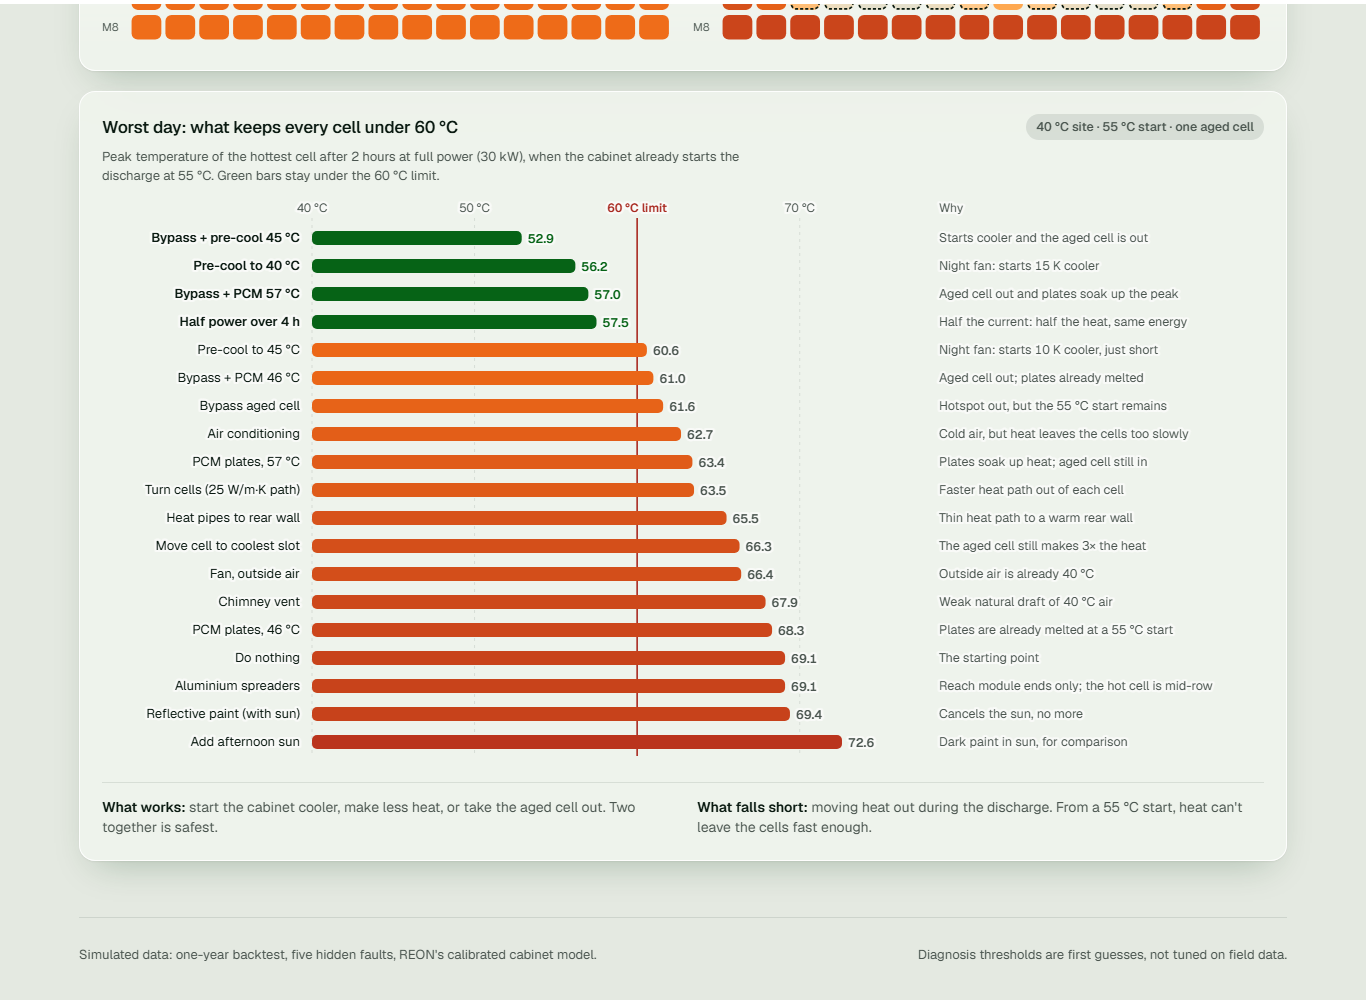
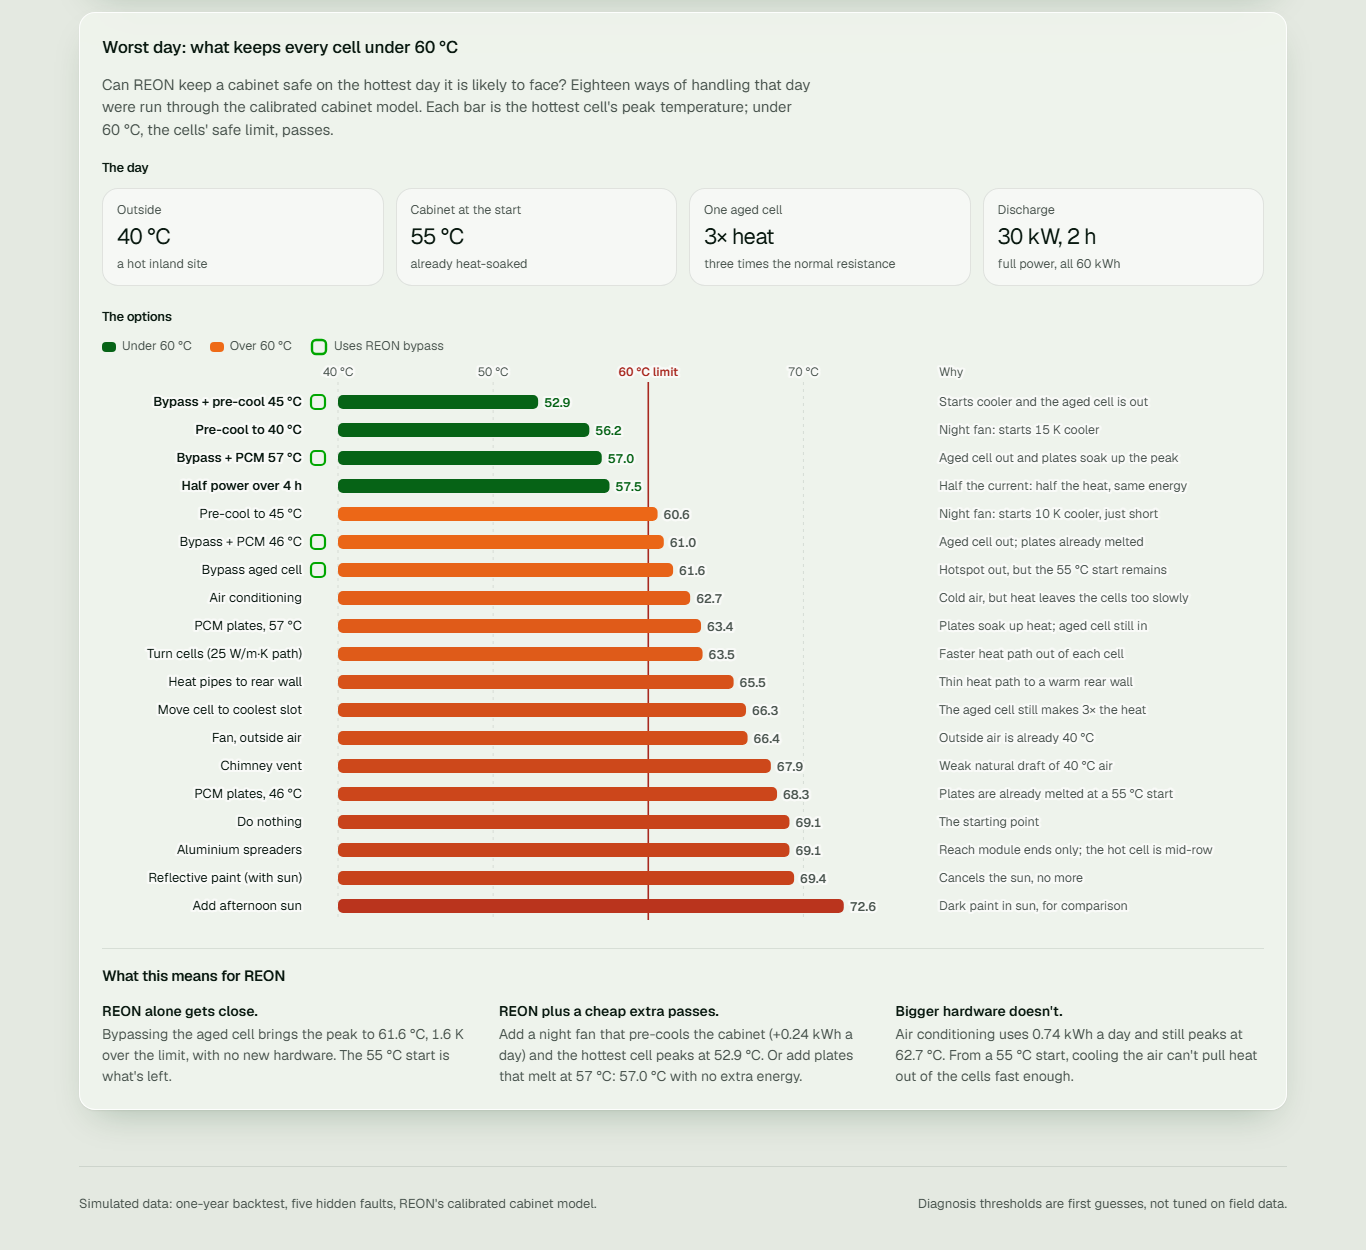
Give the worst-day section the context to read on its own
- Opening paragraph: the question the chart answers and how to read
  a bar against the 60 °C limit.
- "The day": four tiles for the scenario (40 °C outside, cabinet at
  55 °C, one aged cell at 3x heat, 30 kW for 2 h) replace the chip.
- "The options": legend, and the map's green bypass ring on every
  option that uses REON bypass.
- "What this means for REON": three points with numbers read from
  the stage-4 results.
- Numbers and units joined with no-break spaces; DESIGN.md updated.

diff --git a/reon_thermal/dashboard/index.html b/reon_thermal/dashboard/index.html
@@ -228,11 +228,17 @@ h1,h2,h3{margin:0; font-weight:500; letter-spacing:-.02em; text-wrap:balance}
 .fxbox{min-width:0}
 .fx .row{cursor:default}
 .fx .row.hl rect.bg{fill:color-mix(in srgb, var(--accent) 14%, transparent)}
-#fixes > .muted{margin-top:-6px; margin-bottom:10px; max-width:75ch}
-.fxnote{display:grid; grid-template-columns:1fr 1fr; gap:12px 28px; margin-top:16px; padding-top:14px; border-top:1px solid var(--line); font-size:14px; line-height:1.45; color:var(--ink-2)}
-.fxnote p{margin:0; max-width:60ch}
-.fxnote b{color:var(--ink); font-weight:600}
-@media (max-width:640px){ .fxnote{grid-template-columns:1fr} }
+.fxintro{margin:0 0 18px; max-width:72ch; font-size:15px; line-height:1.5; color:var(--ink-2)}
+.fxh{margin:0 0 10px; font-size:13px; font-weight:600; color:var(--ink)}
+.fxday{display:grid; grid-template-columns:repeat(4, 1fr); gap:12px; margin-bottom:22px}
+.fxday .mini span:last-child{margin-top:2px}
+.fxleg{margin:0 0 4px}
+.fxleg .sw{display:inline-block; width:14px; height:10px; border-radius:4px; margin-right:6px; vertical-align:middle}
+.fxnote{display:grid; grid-template-columns:repeat(3, 1fr); gap:14px 28px; margin-top:18px; padding-top:16px; border-top:1px solid var(--line); font-size:14px; line-height:1.5; color:var(--ink-2)}
+.fxnote h3{grid-column:1 / -1; margin:0; font-size:15px; font-weight:600; color:var(--ink)}
+.fxnote p{margin:0; max-width:46ch}
+.fxnote b{display:block; color:var(--ink); font-weight:600; margin-bottom:2px}
+@media (max-width:1040px){ .fxday{grid-template-columns:1fr 1fr} .fxnote{grid-template-columns:1fr} }
 .econ{display:grid; grid-template-columns:1fr 1fr; gap:12px}
 .econ .mini b{font-size:28px}
 .foot{padding-block:28px 48px; color:var(--ink-2); font-size:13px; display:flex; gap:12px 28px; flex-wrap:wrap; justify-content:space-between; border-top:1px solid var(--line); margin-top:32px}
@@ -488,13 +494,23 @@ h1,h2,h3{margin:0; font-weight:500; letter-spacing:-.02em; text-wrap:balance}
       </article>
 
       <article class="card s12" id="fixes">
-        <div class="ch"><h2>Worst day: what keeps every cell under 60 °C</h2><span class="chip n">40 °C site · 55 °C start · one aged cell</span></div>
-        <div class="muted small">Peak temperature of the hottest cell after 2 hours at full power (30 kW), when the cabinet already starts the discharge at 55 °C. Green bars stay under the 60 °C limit.</div>
-        <div class="fxbox"><svg class="fx" id="fx" viewBox="0 0 1000 520" role="img" aria-label="Peak cell temperature for each option, with the reason it works or falls short"></svg></div>
-        <div class="fxnote">
-          <p><b>What works:</b> start the cabinet cooler, make less heat, or take the aged cell out. Two together is safest.</p>
-          <p><b>What falls short:</b> moving heat out during the discharge. From a 55 °C start, heat can't leave the cells fast enough.</p>
+        <div class="ch"><h2>Worst day: what keeps every cell under 60 °C</h2></div>
+        <p class="fxintro">Can REON keep a cabinet safe on the hottest day it is likely to face? Eighteen ways of handling that day were run through the calibrated cabinet model. Each bar is the hottest cell's peak temperature; under 60&nbsp;°C, the cells' safe limit, passes.</p>
+        <h3 class="fxh">The day</h3>
+        <div class="fxday">
+          <div class="mini"><span>Outside</span><b>40 °C</b><span>a hot inland site</span></div>
+          <div class="mini"><span>Cabinet at the start</span><b>55 °C</b><span>already heat-soaked</span></div>
+          <div class="mini"><span>One aged cell</span><b>3× heat</b><span>three times the normal resistance</span></div>
+          <div class="mini"><span>Discharge</span><b>30 kW, 2 h</b><span>full power, all 60 kWh</span></div>
         </div>
+        <h3 class="fxh">The options</h3>
+        <div class="legend fxleg">
+          <span><i class="sw" style="background:var(--ok)"></i>Under 60 °C</span>
+          <span><i class="sw" style="background:var(--h3)"></i>Over 60 °C</span>
+          <span><svg width="18" height="18" viewBox="0 0 18 18" aria-hidden="true"><rect x="2" y="2" width="14" height="14" rx="4" fill="none" stroke="var(--accent)" stroke-width="2.4"/></svg>Uses REON bypass</span>
+        </div>
+        <div class="fxbox"><svg class="fx" id="fx" viewBox="0 0 1000 520" role="img" aria-label="Peak cell temperature for each option, with the reason it works or falls short. A green ring marks options that use REON bypass."></svg></div>
+        <div class="fxnote" id="fxnote"></div>
       </article>
     </div>
   </section>
@@ -877,15 +893,27 @@ const WHY = ["The starting point", "Hotspot out, but the 55 °C start remains", 
   "Cancels the sun, no more", "Half the current: half the heat, same energy", "Cold air, but heat leaves the cells too slowly",
   "Starts cooler and the aged cell is out", "Aged cell out; plates already melted", "Plates soak up heat; aged cell still in",
   "Aged cell out and plates soak up the peak"];
+const REON_FIX = new Set([1, 15, 16, 18]);   // options that use REON bypass (stage4 ideas)
+// the takeaway under the chart, with every number read from the same results
+function renderFixNote() {
+  // numbers and units are joined with no-break spaces ( ) so they never split across lines
+  const I = D.ideas, alone = I[1], fan = I[15], pcm = I[18], ac = I[14], C = v => `${v.toFixed(1)} °C`, n = " ";
+  const p = (lead, txt) => H("p", {}, [H("b", {}, lead), txt]);
+  $("#fxnote").replaceChildren(H("h3", {}, "What this means for REON"),
+    p("REON alone gets close.", `Bypassing the aged cell brings the peak to ${C(alone.peak)}, ${(alone.peak - 60).toFixed(1)}${n}K over the limit, with no new hardware. The 55${n}°C start is what's left.`),
+    p("REON plus a cheap extra passes.", `Add a night fan that pre-cools the cabinet (+${fan.extra}${n}kWh a day) and the hottest cell peaks at ${C(fan.peak)}. Or add plates that melt at 57${n}°C: ${C(pcm.peak)} with no extra energy.`),
+    p("Bigger hardware doesn't.", `Air conditioning uses ${ac.extra}${n}kWh a day and still peaks at ${C(ac.peak)}. From a 55${n}°C start, cooling the air can't pull heat out of the cells fast enough.`));
+}
 function renderFixes() {
+  renderFixNote();
   const svg = $("#fx"); svg.replaceChildren();
   const its = D.ideas.map((d, k) => ({ ...d, k })).sort((a, b) => a.peak - b.peak);
   // wide: label | bar | reason columns. Otherwise the label sits above the bar, with the reason beside it or, on phones, on its own line
   const W = Math.max(300, Math.round($(".fxbox").clientWidth || 1000)), wide = W >= 900, inline = !wide && W >= 560;
-  const L = wide ? 210 : 0, RS = wide ? Math.min(330, Math.round(W * .28)) : 0, R = (wide ? 58 : 46) + RS;
+  const L = wide ? 236 : 0, RS = wide ? Math.min(330, Math.round(W * .28)) : 0, R = (wide ? 58 : 46) + RS, TX = wide ? 0 : 20;
   const rh = wide ? 28 : inline ? 40 : 56, top = 28, lo = 40, hi = 75, X = t => L + (t - lo) / (hi - lo) * (W - L - R);
   svg.setAttribute("viewBox", `0 0 ${W} ${top + its.length * rh + 10}`);
-  const ink = cssv("--ink"), ink2 = cssv("--ink-2"), ok = cssv("--ok"), f = { "font-family": "inherit" };
+  const ink = cssv("--ink"), ink2 = cssv("--ink-2"), ok = cssv("--ok"), acc = cssv("--accent"), f = { "font-family": "inherit" };
   for (const t of [40, 50, 60, 70]) {
     svg.append(S("line", { x1: X(t), x2: X(t), y1: top - 6, y2: top + its.length * rh, stroke: t === 60 ? cssv("--bad") : cssv("--line"), "stroke-width": t === 60 ? 1.6 : 1, "stroke-dasharray": t === 60 ? "" : "3 4" }));
     svg.append(S("text", { x: X(t), y: top - 12, "text-anchor": t === 40 && !wide ? "start" : "middle", "font-size": 12, fill: t === 60 ? cssv("--bad") : ink2, "font-weight": t === 60 ? 600 : 400, ...f }, t === 60 && W >= 420 ? "60 °C limit" : `${t} °C`));
@@ -896,14 +924,17 @@ function renderFixes() {
     const col = it.ok ? ok : heat(3 + clamp((it.peak - 60) / 13, 0, 1)), wt = it.ok ? 600 : 400;
     const by = wide ? y + 7 : y + rh - 18, bh = wide ? rh - 14 : 12;
     g.append(S("rect", { class: "bg", x: 0, y: y + 1, width: W, height: rh - 2, rx: 6, fill: "transparent" }));
+    // REON bypass options carry the map's green bypass ring beside their label
+    if (REON_FIX.has(it.k)) g.append(S("rect", { ...(wide ? { x: L - 27, y: y + 7, width: 14, height: 14 } : { x: 2, y: y + 3, width: 13, height: 13 }),
+      rx: 4, fill: "none", stroke: acc, "stroke-width": 2.2 }, [S("title", {}, "Uses REON bypass")]));
     if (wide) {
-      g.append(S("text", { x: L - 12, y: y + 18, "text-anchor": "end", "font-size": 13, fill: ink, "font-weight": wt, ...f }, SHORT[it.k]));
+      g.append(S("text", { x: L - 36, y: y + 18, "text-anchor": "end", "font-size": 13, fill: ink, "font-weight": wt, ...f }, SHORT[it.k]));
       g.append(S("text", { x: W - RS, y: y + 18, "font-size": 12.5, fill: ink2, ...f }, WHY[it.k]));
     } else if (inline) {
-      g.append(S("text", { x: 0, y: y + 14, "font-size": 12.5, fill: ink, "font-weight": wt, ...f }, [SHORT[it.k], S("tspan", { fill: ink2, "font-weight": 400 }, `  ·  ${WHY[it.k]}`)]));
+      g.append(S("text", { x: TX, y: y + 14, "font-size": 12.5, fill: ink, "font-weight": wt, ...f }, [SHORT[it.k], S("tspan", { fill: ink2, "font-weight": 400 }, `  ·  ${WHY[it.k]}`)]));
     } else {
-      g.append(S("text", { x: 0, y: y + 14, "font-size": 12.5, fill: ink, "font-weight": wt, ...f }, SHORT[it.k]));
-      g.append(S("text", { x: 0, y: y + 30, "font-size": 12, fill: ink2, ...f }, WHY[it.k]));
+      g.append(S("text", { x: TX, y: y + 14, "font-size": 12.5, fill: ink, "font-weight": wt, ...f }, SHORT[it.k]));
+      g.append(S("text", { x: TX, y: y + 30, "font-size": 12, fill: ink2, ...f }, WHY[it.k]));
     }
     g.append(S("rect", { x: X(lo), y: by, width: Math.max(2, X(it.peak) - X(lo)), height: bh, rx: 5, fill: col }));
     g.append(S("text", { x: X(it.peak) + 6, y: by + bh / 2 + 4.5, "font-size": 12.5, fill: it.ok ? ok : ink2, "font-weight": 600, ...f }, `${it.peak.toFixed(1)}`));

diff --git a/reon_thermal/dashboard/page.html b/reon_thermal/dashboard/page.html
@@ -223,11 +223,17 @@ h1,h2,h3{margin:0; font-weight:500; letter-spacing:-.02em; text-wrap:balance}
 .fxbox{min-width:0}
 .fx .row{cursor:default}
 .fx .row.hl rect.bg{fill:color-mix(in srgb, var(--accent) 14%, transparent)}
-#fixes > .muted{margin-top:-6px; margin-bottom:10px; max-width:75ch}
-.fxnote{display:grid; grid-template-columns:1fr 1fr; gap:12px 28px; margin-top:16px; padding-top:14px; border-top:1px solid var(--line); font-size:14px; line-height:1.45; color:var(--ink-2)}
-.fxnote p{margin:0; max-width:60ch}
-.fxnote b{color:var(--ink); font-weight:600}
-@media (max-width:640px){ .fxnote{grid-template-columns:1fr} }
+.fxintro{margin:0 0 18px; max-width:72ch; font-size:15px; line-height:1.5; color:var(--ink-2)}
+.fxh{margin:0 0 10px; font-size:13px; font-weight:600; color:var(--ink)}
+.fxday{display:grid; grid-template-columns:repeat(4, 1fr); gap:12px; margin-bottom:22px}
+.fxday .mini span:last-child{margin-top:2px}
+.fxleg{margin:0 0 4px}
+.fxleg .sw{display:inline-block; width:14px; height:10px; border-radius:4px; margin-right:6px; vertical-align:middle}
+.fxnote{display:grid; grid-template-columns:repeat(3, 1fr); gap:14px 28px; margin-top:18px; padding-top:16px; border-top:1px solid var(--line); font-size:14px; line-height:1.5; color:var(--ink-2)}
+.fxnote h3{grid-column:1 / -1; margin:0; font-size:15px; font-weight:600; color:var(--ink)}
+.fxnote p{margin:0; max-width:46ch}
+.fxnote b{display:block; color:var(--ink); font-weight:600; margin-bottom:2px}
+@media (max-width:1040px){ .fxday{grid-template-columns:1fr 1fr} .fxnote{grid-template-columns:1fr} }
 .econ{display:grid; grid-template-columns:1fr 1fr; gap:12px}
 .econ .mini b{font-size:28px}
 .foot{padding-block:28px 48px; color:var(--ink-2); font-size:13px; display:flex; gap:12px 28px; flex-wrap:wrap; justify-content:space-between; border-top:1px solid var(--line); margin-top:32px}
@@ -480,13 +486,23 @@ h1,h2,h3{margin:0; font-weight:500; letter-spacing:-.02em; text-wrap:balance}
       </article>
 
       <article class="card s12" id="fixes">
-        <div class="ch"><h2>Worst day: what keeps every cell under 60 °C</h2><span class="chip n">40 °C site · 55 °C start · one aged cell</span></div>
-        <div class="muted small">Peak temperature of the hottest cell after 2 hours at full power (30 kW), when the cabinet already starts the discharge at 55 °C. Green bars stay under the 60 °C limit.</div>
-        <div class="fxbox"><svg class="fx" id="fx" viewBox="0 0 1000 520" role="img" aria-label="Peak cell temperature for each option, with the reason it works or falls short"></svg></div>
-        <div class="fxnote">
-          <p><b>What works:</b> start the cabinet cooler, make less heat, or take the aged cell out. Two together is safest.</p>
-          <p><b>What falls short:</b> moving heat out during the discharge. From a 55 °C start, heat can't leave the cells fast enough.</p>
+        <div class="ch"><h2>Worst day: what keeps every cell under 60 °C</h2></div>
+        <p class="fxintro">Can REON keep a cabinet safe on the hottest day it is likely to face? Eighteen ways of handling that day were run through the calibrated cabinet model. Each bar is the hottest cell's peak temperature; under 60&nbsp;°C, the cells' safe limit, passes.</p>
+        <h3 class="fxh">The day</h3>
+        <div class="fxday">
+          <div class="mini"><span>Outside</span><b>40 °C</b><span>a hot inland site</span></div>
+          <div class="mini"><span>Cabinet at the start</span><b>55 °C</b><span>already heat-soaked</span></div>
+          <div class="mini"><span>One aged cell</span><b>3× heat</b><span>three times the normal resistance</span></div>
+          <div class="mini"><span>Discharge</span><b>30 kW, 2 h</b><span>full power, all 60 kWh</span></div>
         </div>
+        <h3 class="fxh">The options</h3>
+        <div class="legend fxleg">
+          <span><i class="sw" style="background:var(--ok)"></i>Under 60 °C</span>
+          <span><i class="sw" style="background:var(--h3)"></i>Over 60 °C</span>
+          <span><svg width="18" height="18" viewBox="0 0 18 18" aria-hidden="true"><rect x="2" y="2" width="14" height="14" rx="4" fill="none" stroke="var(--accent)" stroke-width="2.4"/></svg>Uses REON bypass</span>
+        </div>
+        <div class="fxbox"><svg class="fx" id="fx" viewBox="0 0 1000 520" role="img" aria-label="Peak cell temperature for each option, with the reason it works or falls short. A green ring marks options that use REON bypass."></svg></div>
+        <div class="fxnote" id="fxnote"></div>
       </article>
     </div>
   </section>
@@ -869,15 +885,27 @@ const WHY = ["The starting point", "Hotspot out, but the 55 °C start remains", 
   "Cancels the sun, no more", "Half the current: half the heat, same energy", "Cold air, but heat leaves the cells too slowly",
   "Starts cooler and the aged cell is out", "Aged cell out; plates already melted", "Plates soak up heat; aged cell still in",
   "Aged cell out and plates soak up the peak"];
+const REON_FIX = new Set([1, 15, 16, 18]);   // options that use REON bypass (stage4 ideas)
+// the takeaway under the chart, with every number read from the same results
+function renderFixNote() {
+  // numbers and units are joined with no-break spaces ( ) so they never split across lines
+  const I = D.ideas, alone = I[1], fan = I[15], pcm = I[18], ac = I[14], C = v => `${v.toFixed(1)} °C`, n = " ";
+  const p = (lead, txt) => H("p", {}, [H("b", {}, lead), txt]);
+  $("#fxnote").replaceChildren(H("h3", {}, "What this means for REON"),
+    p("REON alone gets close.", `Bypassing the aged cell brings the peak to ${C(alone.peak)}, ${(alone.peak - 60).toFixed(1)}${n}K over the limit, with no new hardware. The 55${n}°C start is what's left.`),
+    p("REON plus a cheap extra passes.", `Add a night fan that pre-cools the cabinet (+${fan.extra}${n}kWh a day) and the hottest cell peaks at ${C(fan.peak)}. Or add plates that melt at 57${n}°C: ${C(pcm.peak)} with no extra energy.`),
+    p("Bigger hardware doesn't.", `Air conditioning uses ${ac.extra}${n}kWh a day and still peaks at ${C(ac.peak)}. From a 55${n}°C start, cooling the air can't pull heat out of the cells fast enough.`));
+}
 function renderFixes() {
+  renderFixNote();
   const svg = $("#fx"); svg.replaceChildren();
   const its = D.ideas.map((d, k) => ({ ...d, k })).sort((a, b) => a.peak - b.peak);
   // wide: label | bar | reason columns. Otherwise the label sits above the bar, with the reason beside it or, on phones, on its own line
   const W = Math.max(300, Math.round($(".fxbox").clientWidth || 1000)), wide = W >= 900, inline = !wide && W >= 560;
-  const L = wide ? 210 : 0, RS = wide ? Math.min(330, Math.round(W * .28)) : 0, R = (wide ? 58 : 46) + RS;
+  const L = wide ? 236 : 0, RS = wide ? Math.min(330, Math.round(W * .28)) : 0, R = (wide ? 58 : 46) + RS, TX = wide ? 0 : 20;
   const rh = wide ? 28 : inline ? 40 : 56, top = 28, lo = 40, hi = 75, X = t => L + (t - lo) / (hi - lo) * (W - L - R);
   svg.setAttribute("viewBox", `0 0 ${W} ${top + its.length * rh + 10}`);
-  const ink = cssv("--ink"), ink2 = cssv("--ink-2"), ok = cssv("--ok"), f = { "font-family": "inherit" };
+  const ink = cssv("--ink"), ink2 = cssv("--ink-2"), ok = cssv("--ok"), acc = cssv("--accent"), f = { "font-family": "inherit" };
   for (const t of [40, 50, 60, 70]) {
     svg.append(S("line", { x1: X(t), x2: X(t), y1: top - 6, y2: top + its.length * rh, stroke: t === 60 ? cssv("--bad") : cssv("--line"), "stroke-width": t === 60 ? 1.6 : 1, "stroke-dasharray": t === 60 ? "" : "3 4" }));
     svg.append(S("text", { x: X(t), y: top - 12, "text-anchor": t === 40 && !wide ? "start" : "middle", "font-size": 12, fill: t === 60 ? cssv("--bad") : ink2, "font-weight": t === 60 ? 600 : 400, ...f }, t === 60 && W >= 420 ? "60 °C limit" : `${t} °C`));
@@ -888,14 +916,17 @@ function renderFixes() {
     const col = it.ok ? ok : heat(3 + clamp((it.peak - 60) / 13, 0, 1)), wt = it.ok ? 600 : 400;
     const by = wide ? y + 7 : y + rh - 18, bh = wide ? rh - 14 : 12;
     g.append(S("rect", { class: "bg", x: 0, y: y + 1, width: W, height: rh - 2, rx: 6, fill: "transparent" }));
+    // REON bypass options carry the map's green bypass ring beside their label
+    if (REON_FIX.has(it.k)) g.append(S("rect", { ...(wide ? { x: L - 27, y: y + 7, width: 14, height: 14 } : { x: 2, y: y + 3, width: 13, height: 13 }),
+      rx: 4, fill: "none", stroke: acc, "stroke-width": 2.2 }, [S("title", {}, "Uses REON bypass")]));
     if (wide) {
-      g.append(S("text", { x: L - 12, y: y + 18, "text-anchor": "end", "font-size": 13, fill: ink, "font-weight": wt, ...f }, SHORT[it.k]));
+      g.append(S("text", { x: L - 36, y: y + 18, "text-anchor": "end", "font-size": 13, fill: ink, "font-weight": wt, ...f }, SHORT[it.k]));
       g.append(S("text", { x: W - RS, y: y + 18, "font-size": 12.5, fill: ink2, ...f }, WHY[it.k]));
     } else if (inline) {
-      g.append(S("text", { x: 0, y: y + 14, "font-size": 12.5, fill: ink, "font-weight": wt, ...f }, [SHORT[it.k], S("tspan", { fill: ink2, "font-weight": 400 }, `  ·  ${WHY[it.k]}`)]));
+      g.append(S("text", { x: TX, y: y + 14, "font-size": 12.5, fill: ink, "font-weight": wt, ...f }, [SHORT[it.k], S("tspan", { fill: ink2, "font-weight": 400 }, `  ·  ${WHY[it.k]}`)]));
     } else {
-      g.append(S("text", { x: 0, y: y + 14, "font-size": 12.5, fill: ink, "font-weight": wt, ...f }, SHORT[it.k]));
-      g.append(S("text", { x: 0, y: y + 30, "font-size": 12, fill: ink2, ...f }, WHY[it.k]));
+      g.append(S("text", { x: TX, y: y + 14, "font-size": 12.5, fill: ink, "font-weight": wt, ...f }, SHORT[it.k]));
+      g.append(S("text", { x: TX, y: y + 30, "font-size": 12, fill: ink2, ...f }, WHY[it.k]));
     }
     g.append(S("rect", { x: X(lo), y: by, width: Math.max(2, X(it.peak) - X(lo)), height: bh, rx: 5, fill: col }));
     g.append(S("text", { x: X(it.peak) + 6, y: by + bh / 2 + 4.5, "font-size": 12.5, fill: it.ok ? ok : ink2, "font-weight": 600, ...f }, `${it.peak.toFixed(1)}`));

diff --git a/DESIGN.md b/DESIGN.md
@@ -271,7 +271,12 @@ A half-circle of 46 rounded ticks from 70 % (end of life) to 100 % (new); lit ti
 A full-width card under the factor cards. A canvas-2D orthographic view of the 8 modules as stacked glass shelves of 16 cell slabs, drawn bottom shelf first and cells by depth, with one fixed world light. Encoding: slab height is cell health (SOH 70-100 %), colour is heat vs pack from the warm ramp, a REON bypass slides the slab forward and draws it see-through with a green outline, retirement slides it further, draws it solid (`--cell-ret`) with the map's X on its front face, and a dashed green footprint marks the empty home slot. Fault cells carry pill tags in their fault hue (only the selected fault's tag below 600px). Drag or arrow keys turn it within ±1 rad of yaw; double-click or Home resets. Canvas height follows the pack's own shape (cap 720px on wide cards, 600px narrower). Beside it: the week as a light numeral, the last five events with coloured dots (grey: fault starts hidden; green: REON flags or pulls; red: healthy cell retired by mistake; heat ramp orange: runs hot; ink-2: loses health) and a four-row key. Its slider sits directly under the canvas at every width, with event ticks above it.
 
 ### Worst-Day Chart (#fixes)
-Every option's peak cell temperature on the worst day, sorted coolest first, with the 60 °C limit as a red rule; options under the limit are bold with ok-green bars, the rest take the heat ramp. Each option carries a one-line reason in plain words (`WHY` in page.html, written from `model/stage4.py`: what the option changes and why it lands where it does). A muted sub-line under the heading says what is measured, and a two-part note under the chart gives the takeaway ("What works" / "What falls short"). User request: the chart must explain itself, not just show data.
+Every option's peak cell temperature on the worst day, sorted coolest first, with the 60 °C limit as a red rule; options under the limit are bold with ok-green bars, the rest take the heat ramp. Each option carries a one-line reason in plain words (`WHY` in page.html, written from `model/stage4.py`: what the option changes and why it lands where it does). The card tells a short story (user request: the section must explain what it means, not just show data):
+- an intro paragraph posing the question ("Can REON keep a cabinet safe on the hottest day…") and how to read a bar;
+- "The day": four mini tiles (outside 40 °C, cabinet at the start 55 °C, one aged cell at 3× heat, 30 kW for 2 h), four across, two below 1040px;
+- "The options": a legend (under / over 60 °C swatches, and the map's green bypass ring for "Uses REON bypass") and the chart, where every REON-bypass option carries that ring beside its label;
+- "What this means for REON": three short points (REON alone gets close; REON plus a cheap extra passes; bigger hardware doesn't), each with numbers read from `D.ideas`, three across, stacked below 1040px.
+Numbers and units are joined with no-break spaces so they never split across lines.
 
 ### Fault Timeline
 Three stacked lanes on the band (REON signal in neon, heat in band-heat, health in band-health), each with a dashed threshold, an area gradient and an event marker row whose labels are packed into rows so they never collide. Chart text carries a band-coloured halo. A hover or click cursor reads the week into a white readout pill.
